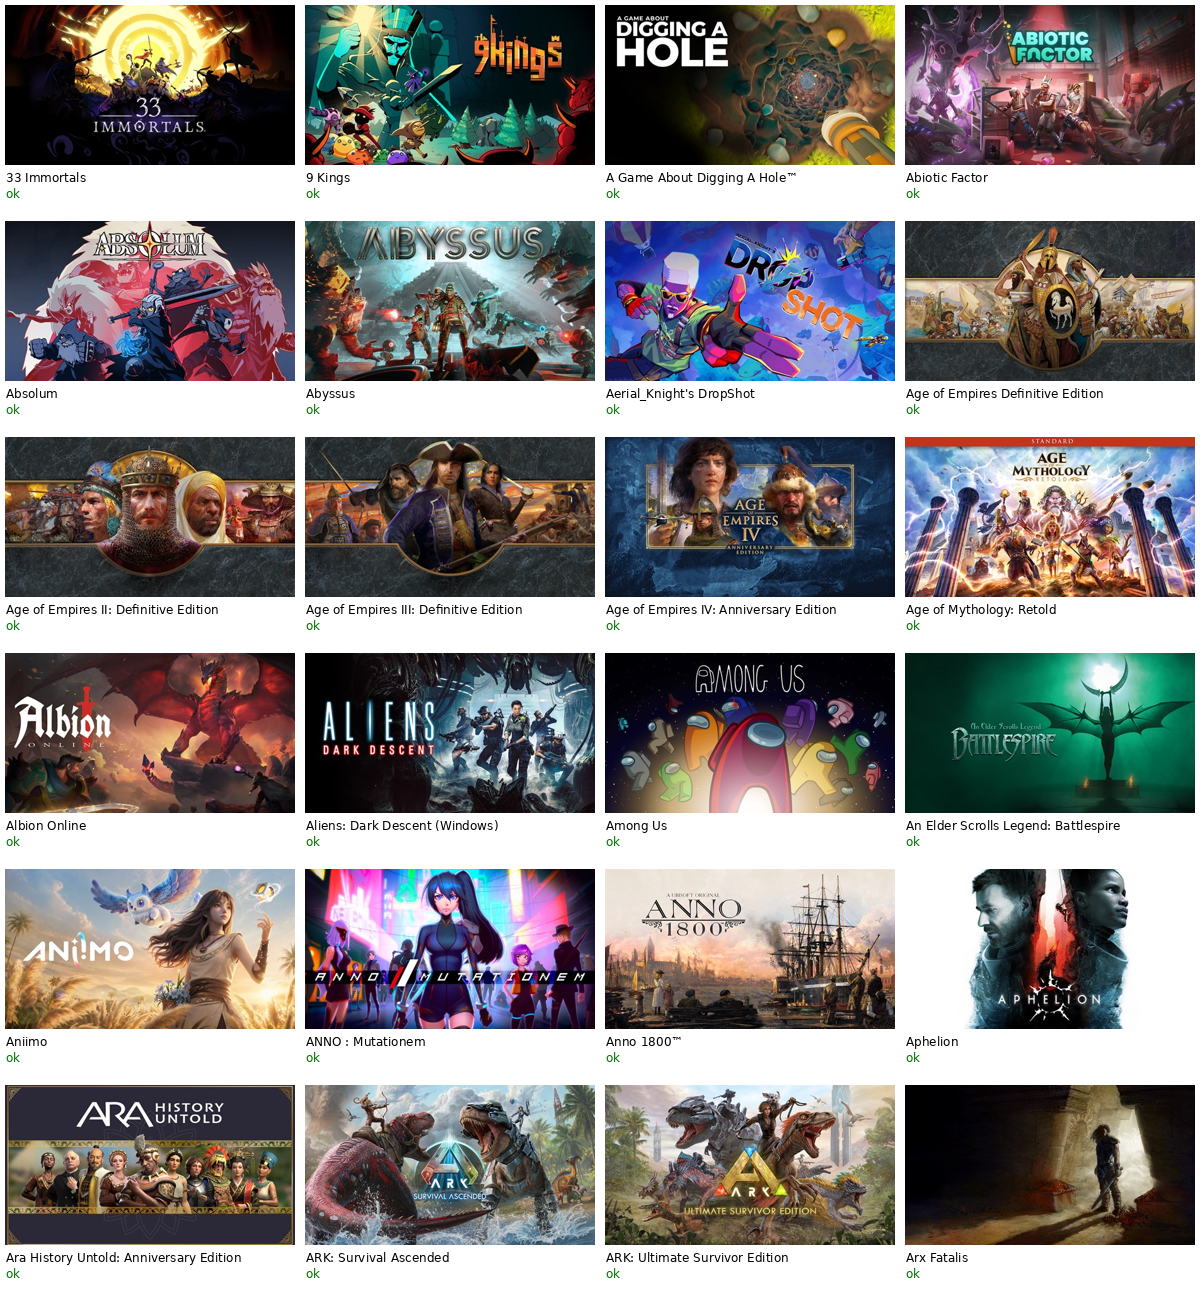
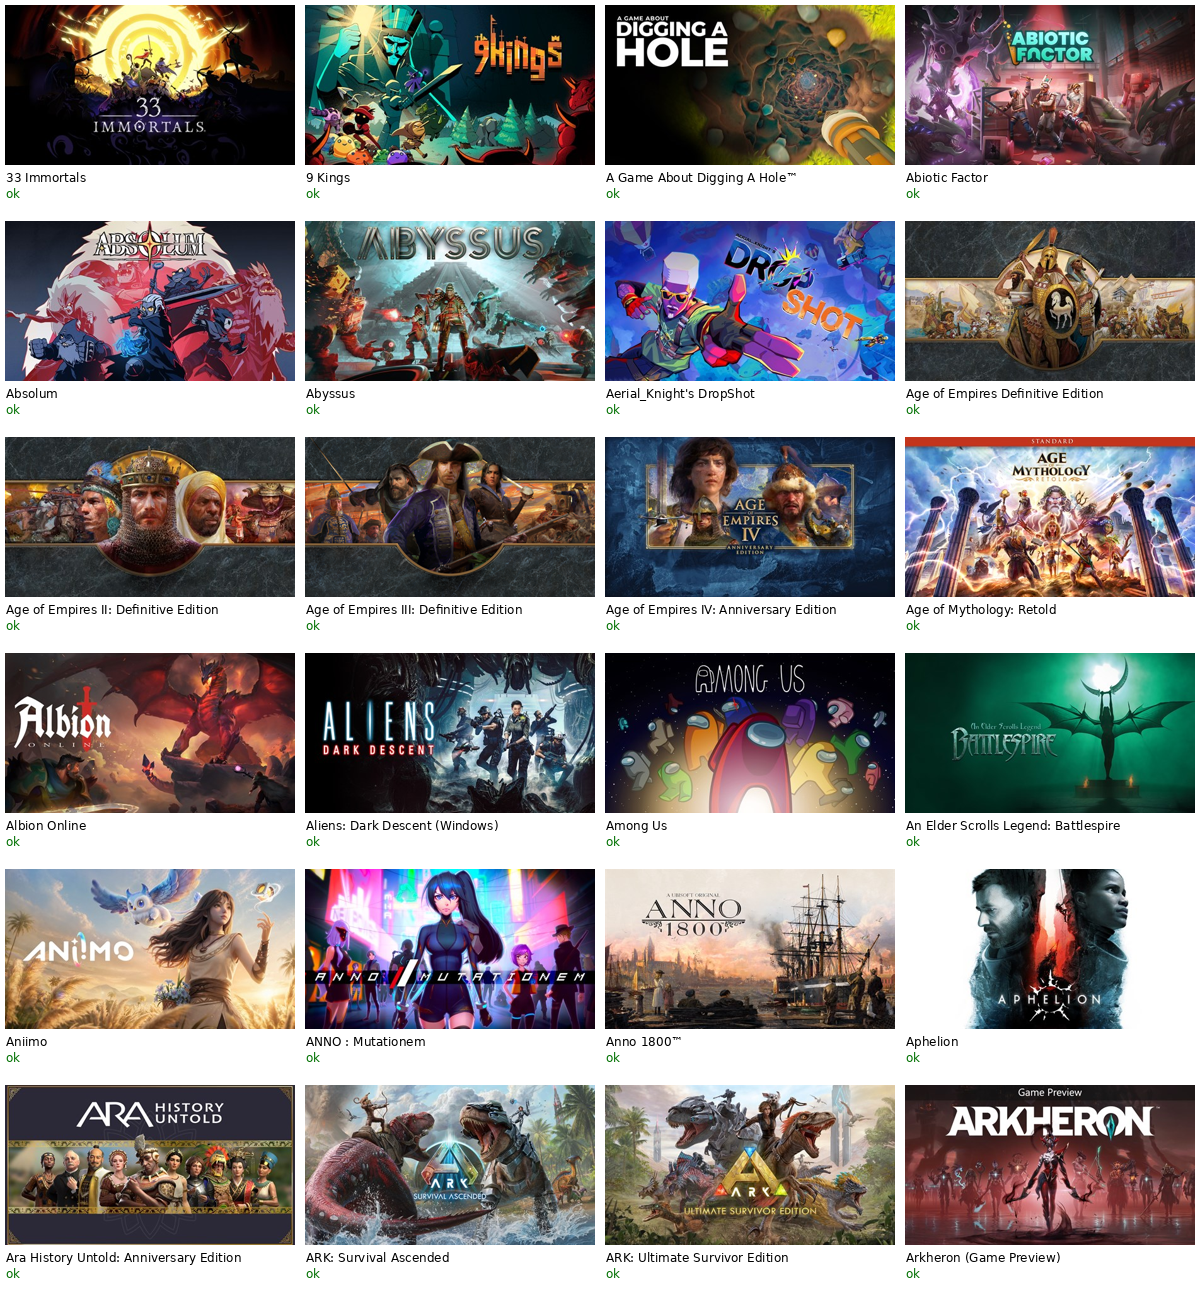
Art audit: main @ 983d26e

Changed region(s): [[0.74, 0.8333, 1.0, 0.9877]]

diff --git a/main-art/report.md b/main-art/report.md
@@ -53,7 +53,7 @@
 
 ## PC Game Pass
 
-515 games in the catalogue, 0 without working art.
+516 games in the catalogue, 0 without working art.
 
 
 ## Candidates
